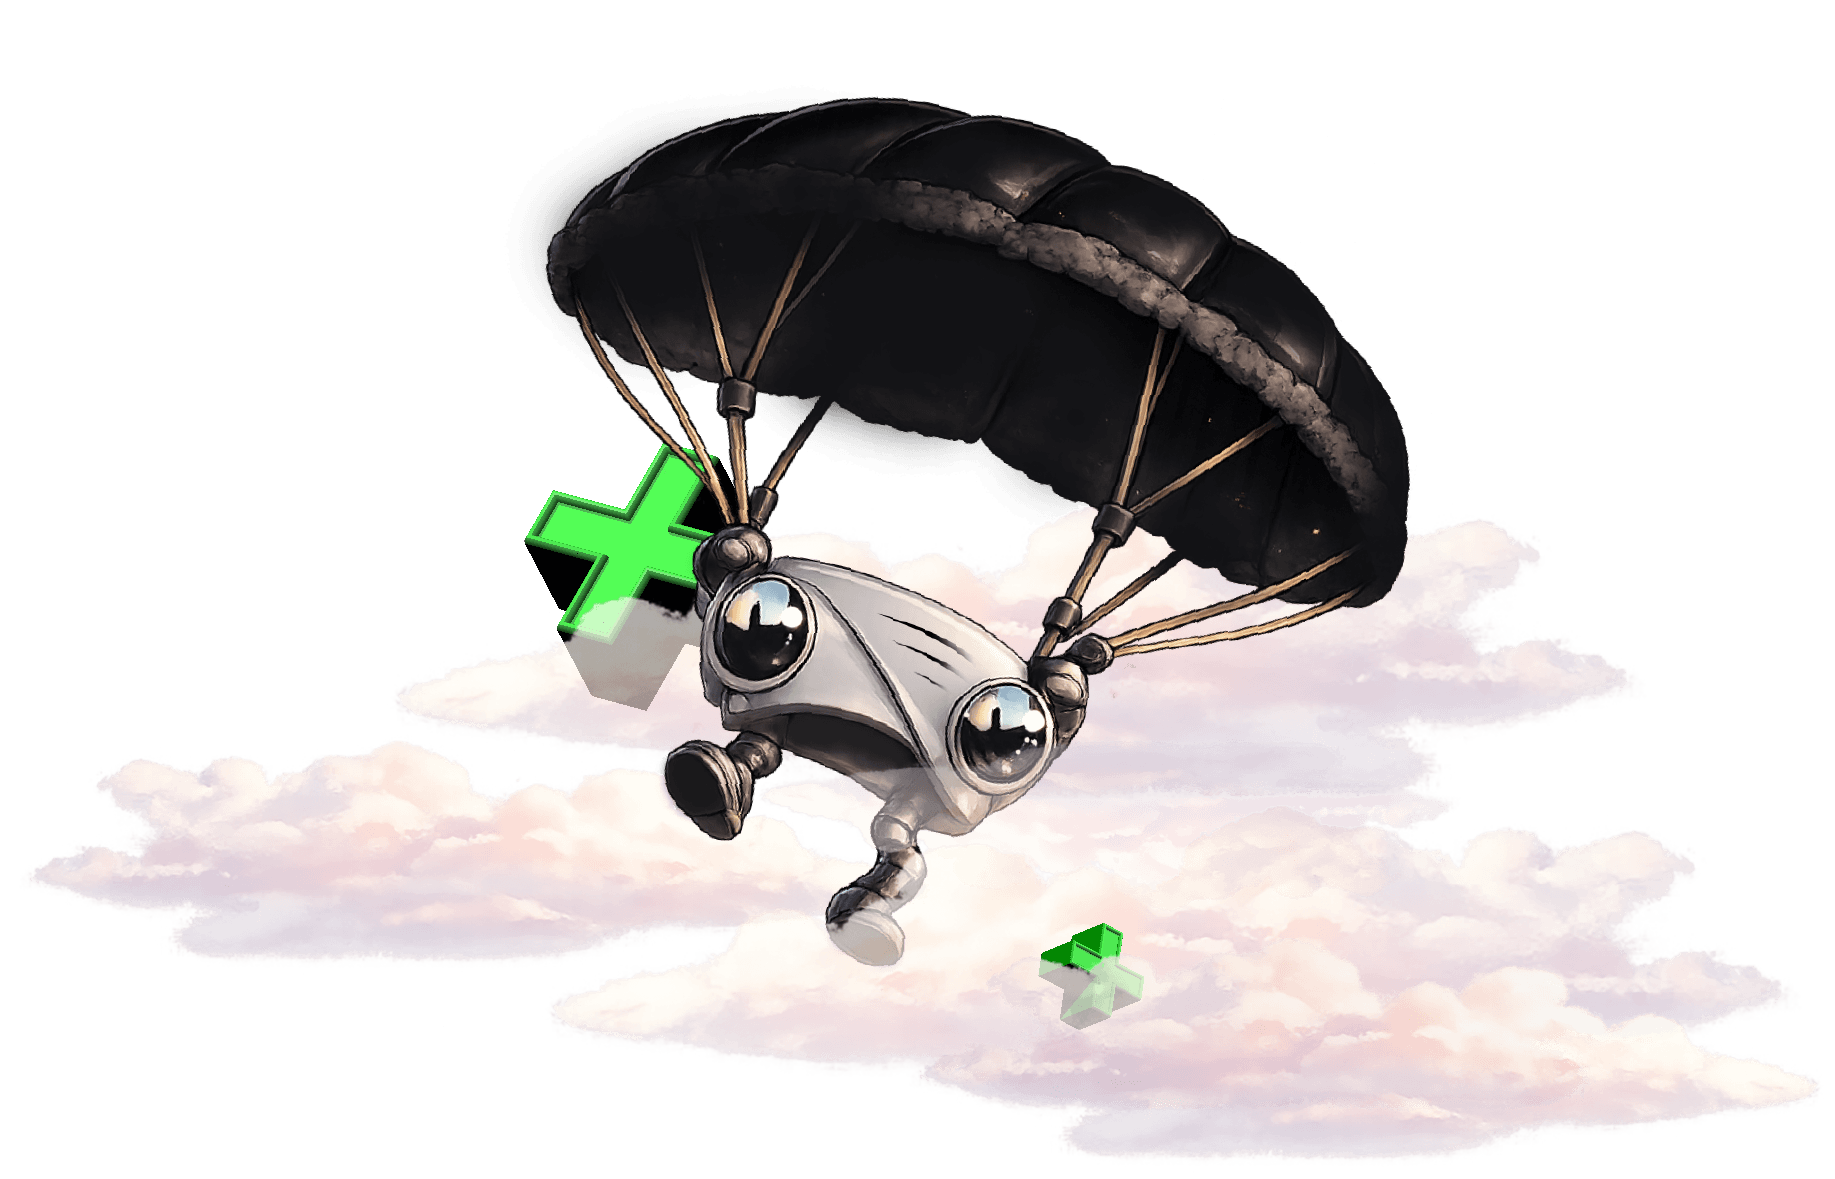
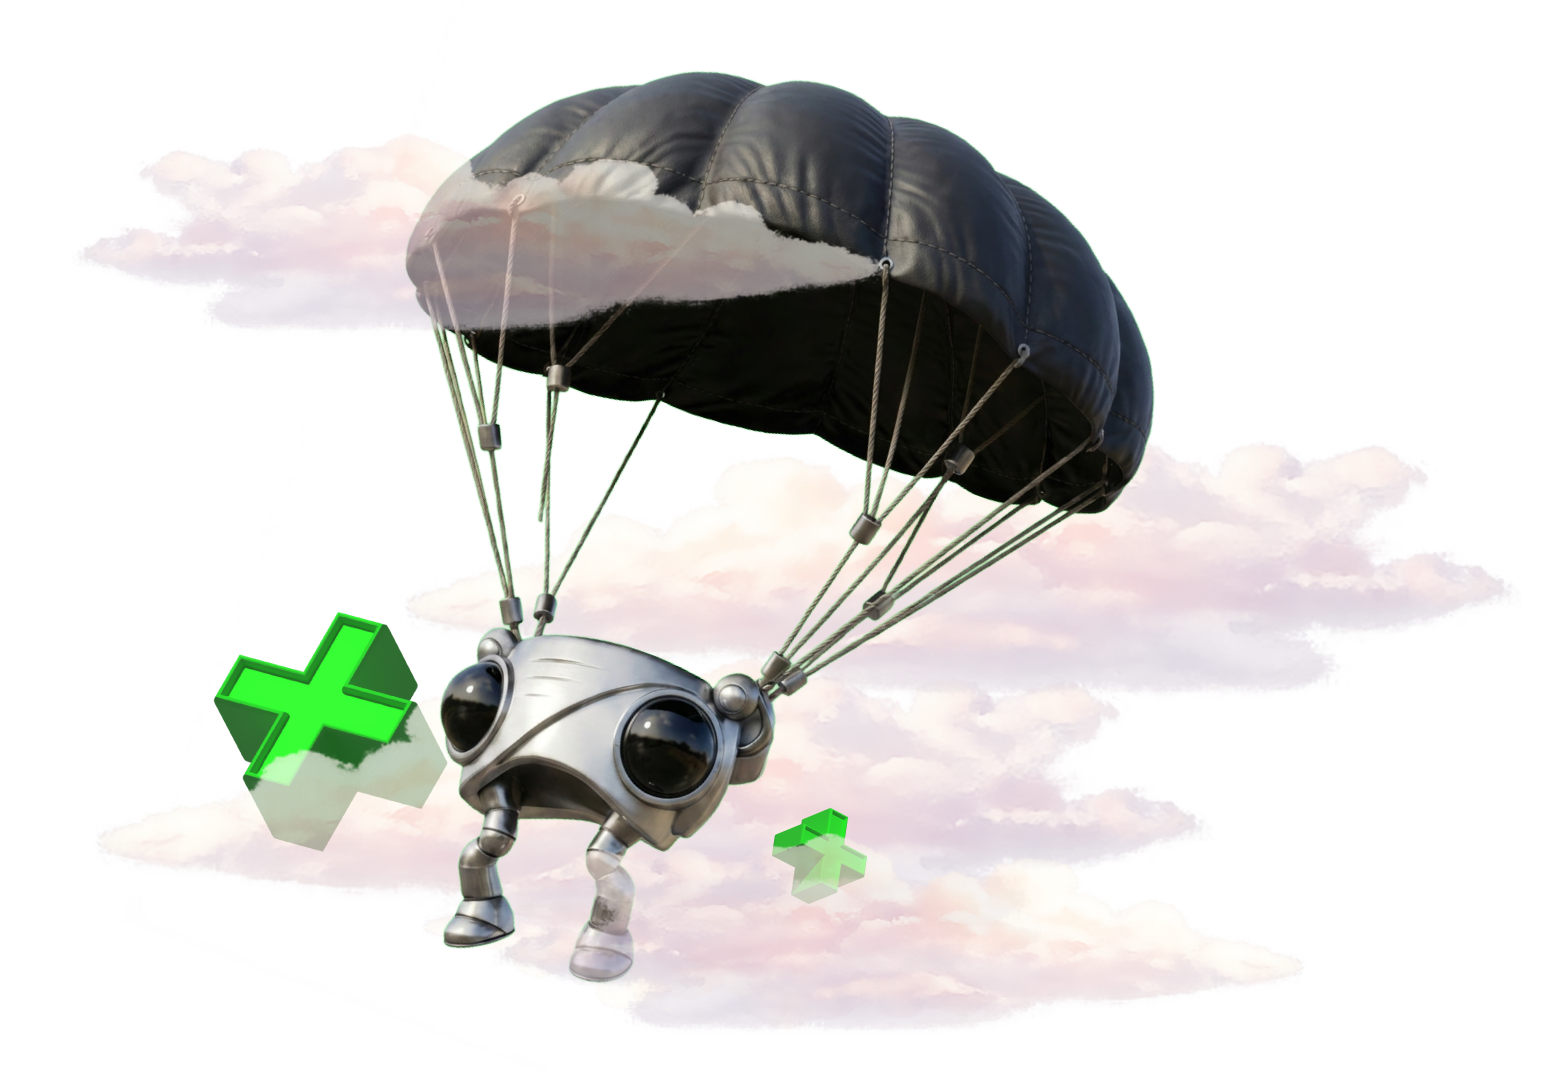
update mono character art and shift position right

diff --git a/index.html b/index.html
@@ -212,8 +212,8 @@
       animation: monoFloat 6s ease-in-out infinite;
     }
     @keyframes monoFloat {
-      0%, 100% { transform: scale(1.7) translate(15%, 0); }
-      50%      { transform: scale(1.7) translate(15%, -8px); }
+      0%, 100% { transform: scale(1.7) translate(28%, 0); }
+      50%      { transform: scale(1.7) translate(28%, -8px); }
     }
 
     .layer--clouds-front {